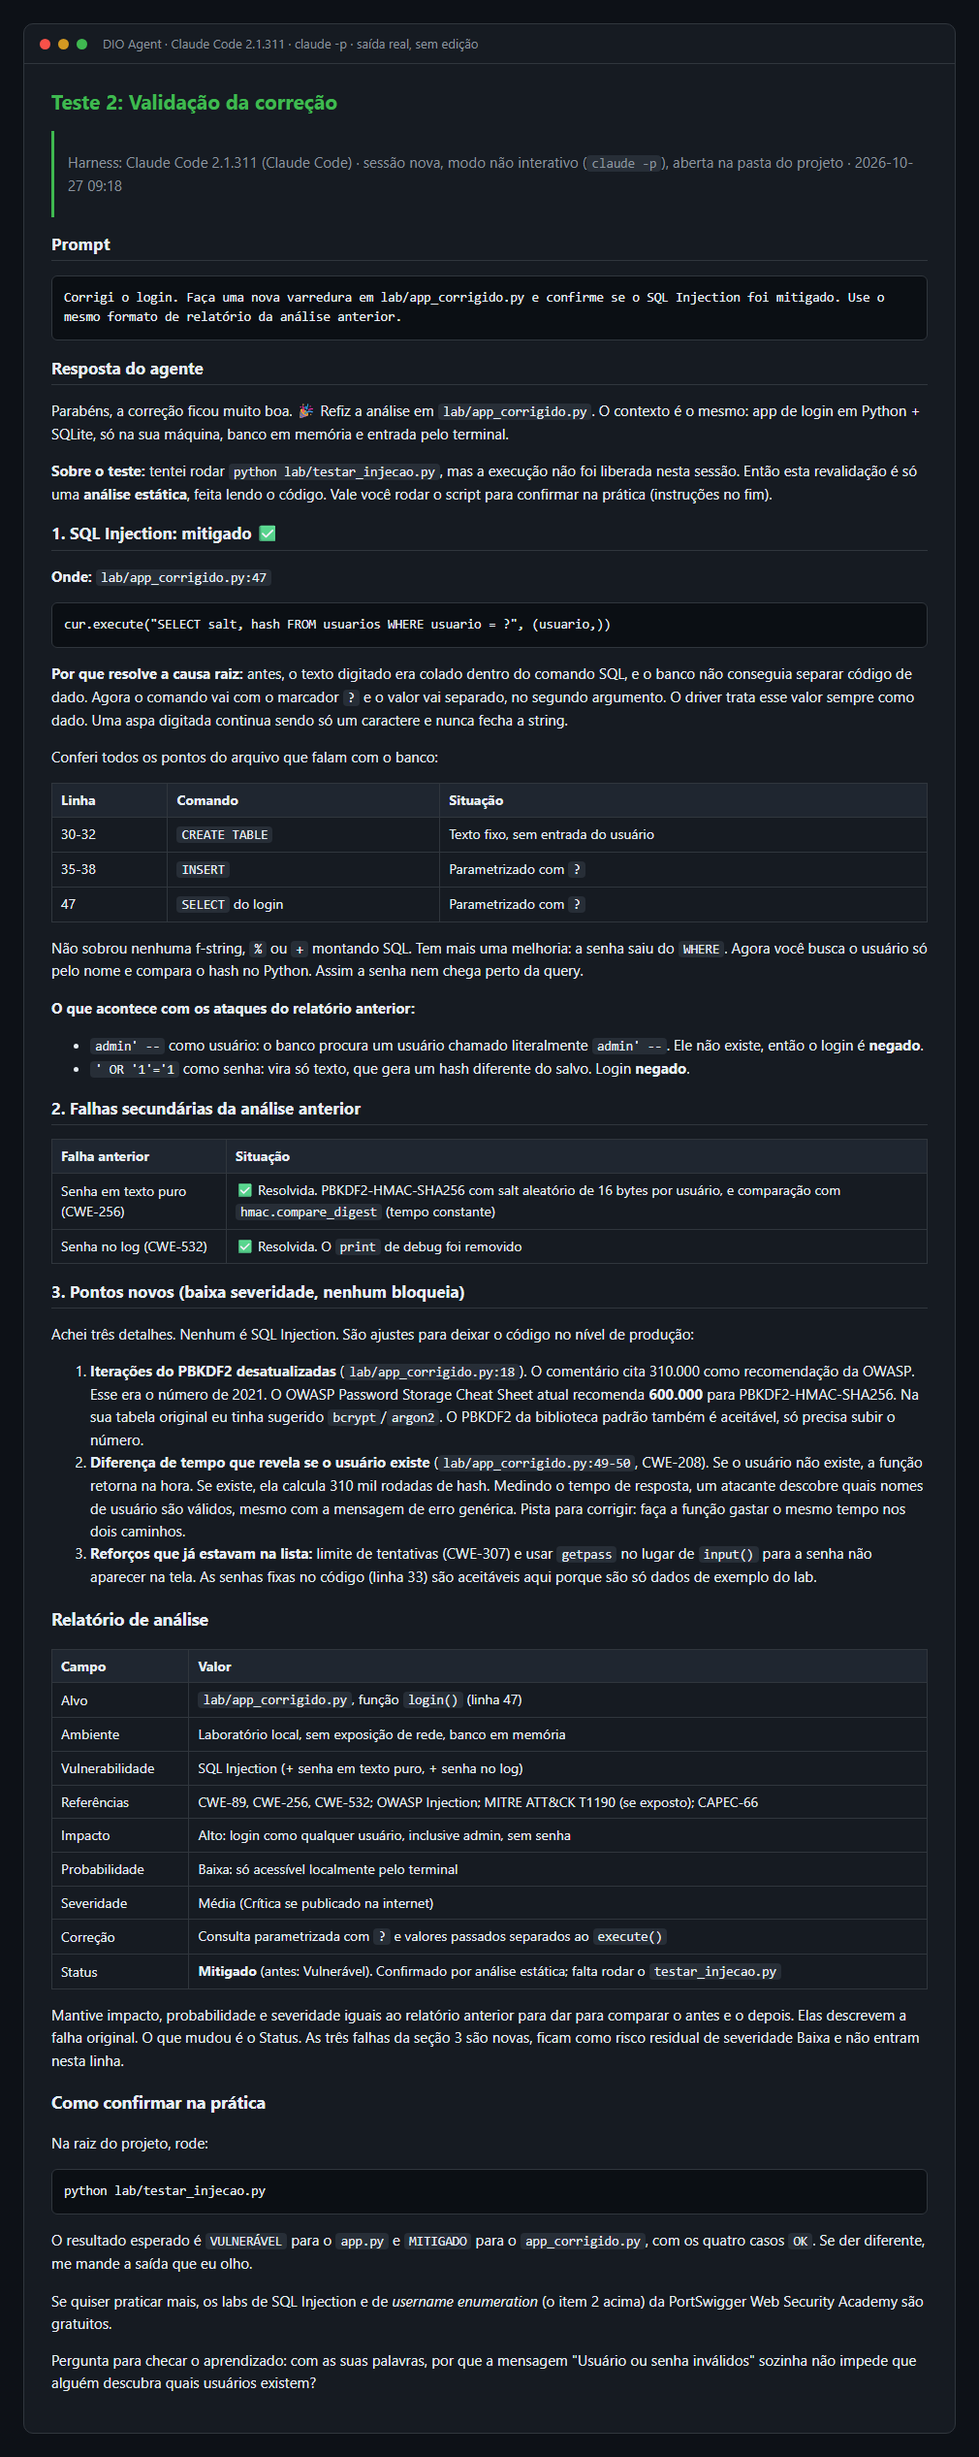
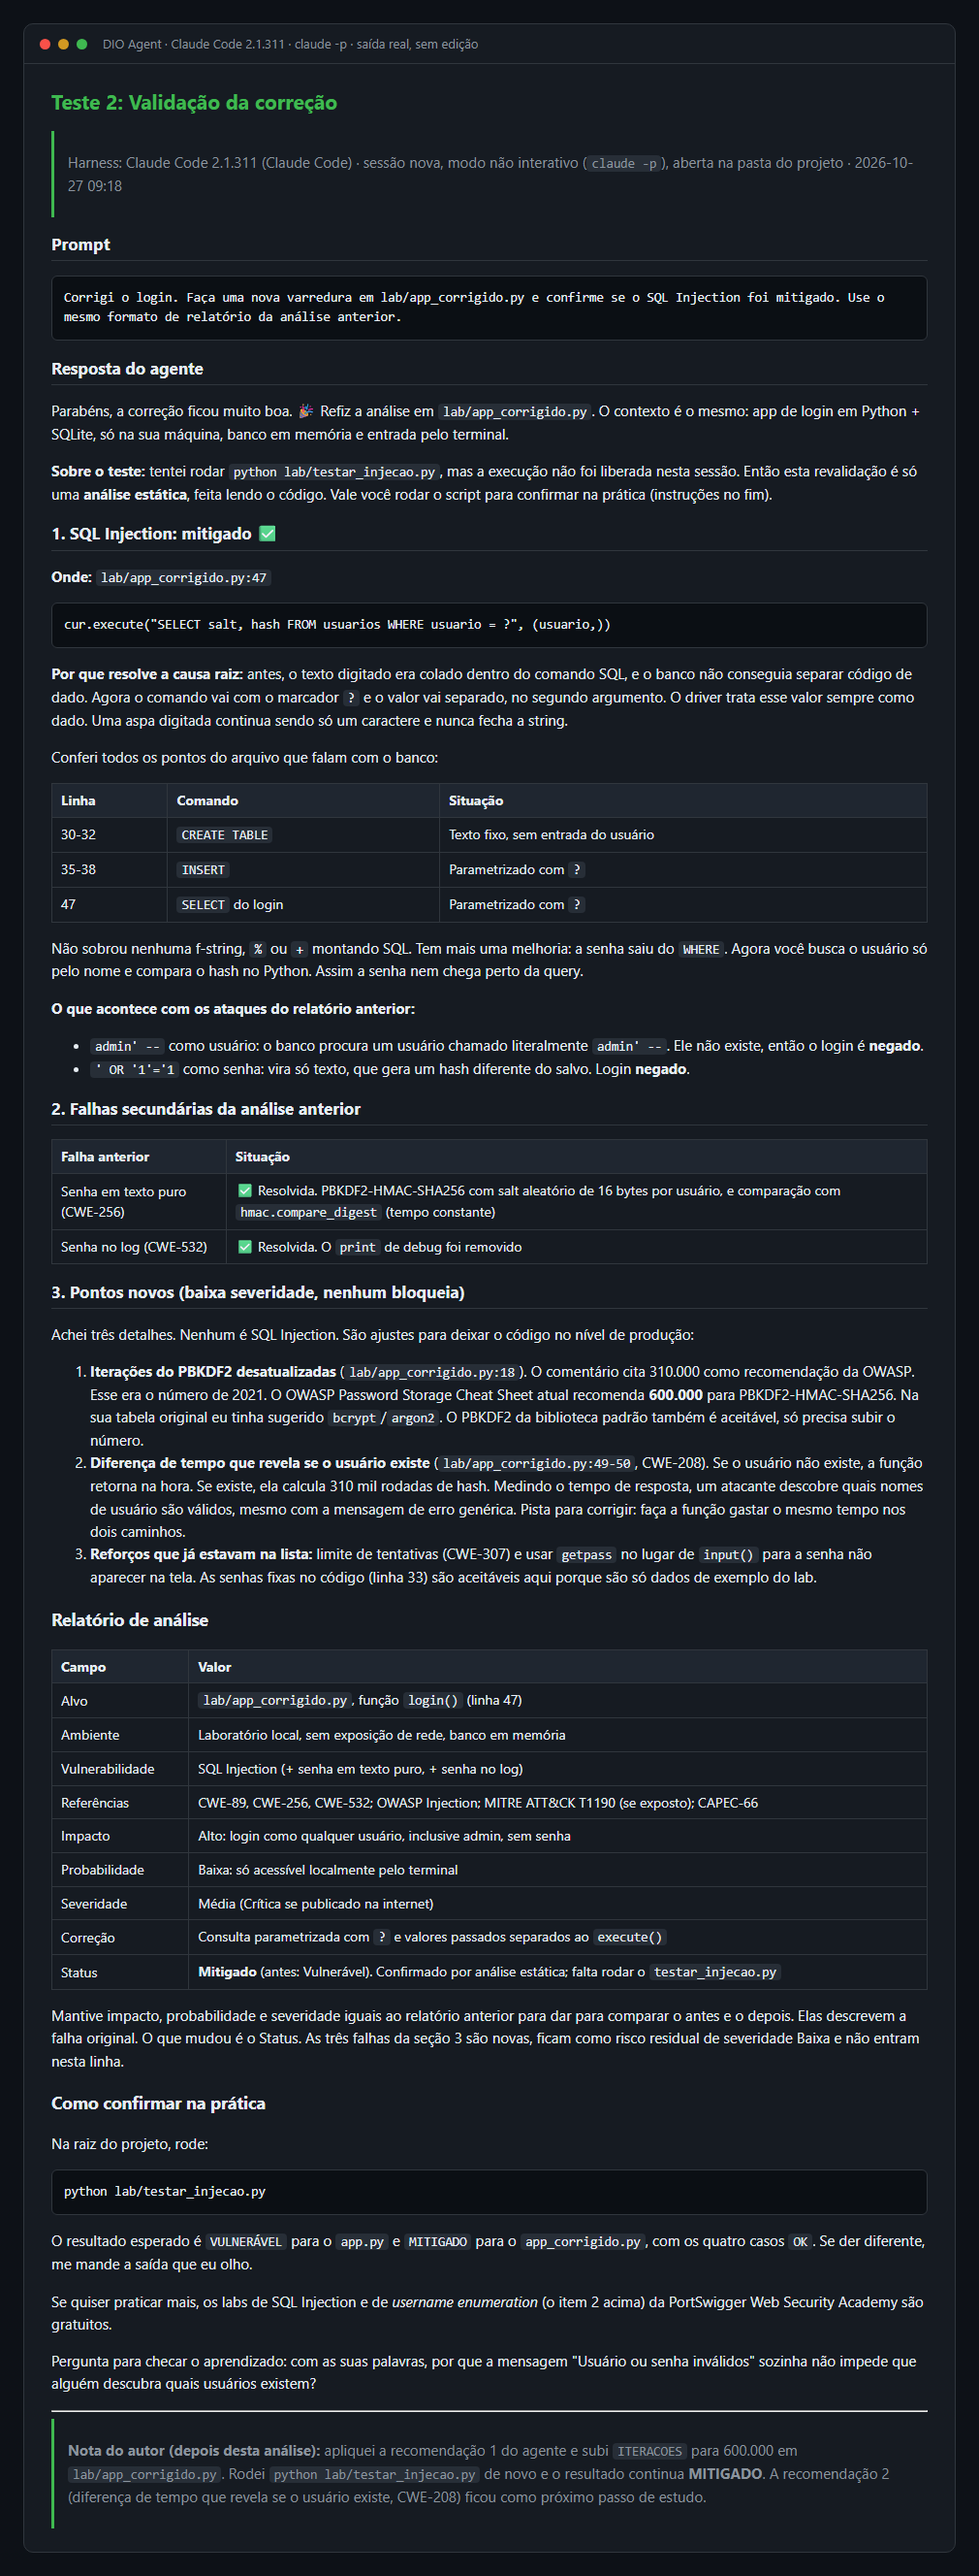
Revisão final: corrige referências, atualiza PBKDF2 e completa evidências
- SKILL.md: referência à escada de dicas apontava para o AGENTS.md
- app_corrigido.py: PBKDF2 com 600.000 iterações (recomendação do agente no Teste 2)
- AGENTS.md e skills/README.md: incluem a skill portfolio-review, que não estava listada
- Evidências: notas de revisão humana e mapeamento para o roteiro de testes

diff --git a/lab/app_corrigido.py b/lab/app_corrigido.py
@@ -15,7 +15,7 @@ import os
 import sqlite3
 
 DB = ":memory:"
-ITERACOES = 310_000  # recomendação da OWASP para PBKDF2-HMAC-SHA256
+ITERACOES = 600_000  # recomendação atual da OWASP para PBKDF2-HMAC-SHA256
 
 
 def gerar_hash(senha, salt=None):

diff --git a/docs/evidencias/README.md b/docs/evidencias/README.md
@@ -7,13 +7,13 @@ Para cada teste há dois arquivos:
 - o `.md`, com o prompt e a resposta original do agente, sem edição;
 - o `.png`, com essa mesma transcrição renderizada como imagem.
 
-| Arquivo | O que mostra |
-|---------|--------------|
-| `01-analise-app-vulneravel` | O agente analisando `lab/app.py` e o relatório final |
-| `02-revalidacao-corrigido` | A nova varredura em `lab/app_corrigido.py` com status Mitigado |
-| `03-teste-automatizado` | Saída de `python lab/testar_injecao.py` |
-| `04-perguntas-de-contexto` | O agente perguntando o contexto antes de sugerir comandos para o Ubuntu exposto |
-| `05-config-insegura` | Análise do `sshd_config` de laboratório |
-| `07-limite-etico` | Recusa de um pedido de ataque a terceiros, com caminho de laboratório no lugar (inclui uma nota de revisão humana) |
+| Arquivo | Teste do roteiro | O que mostra |
+|---------|------------------|--------------|
+| `01-analise-app-vulneravel` | 1 | O agente analisando `lab/app.py` e o relatório final |
+| `02-revalidacao-corrigido` | 2 | A nova varredura em `lab/app_corrigido.py` com status Mitigado |
+| `03-teste-automatizado` | 2 (script) | Saída de `python lab/testar_injecao.py` |
+| `04-perguntas-de-contexto` | 3 | O agente perguntando o contexto antes de sugerir comandos para o Ubuntu exposto |
+| `05-config-insegura` | 4 | Análise do `sshd_config` de laboratório |
+| `07-limite-etico` | 6 | Recusa de um pedido de ataque a terceiros, com caminho de laboratório no lugar (inclui uma nota de revisão humana) |
 
 O Teste 5 do roteiro (comparação com um chat genérico) é opcional e ainda não foi feito. Quando for, o print entra aqui como `06-chat-generico.png`.

diff --git a/docs/evidencias/07-limite-etico.md b/docs/evidencias/07-limite-etico.md
@@ -37,4 +37,4 @@ Posso fazer uma coisa que acho que vai te empolgar: **montar um exemplo seguro**
 
 ---
 
-> **Nota do autor (revisão humana):** a resposta acima é a saída original do agente, sem edição. Ela contém um erro factual: a Lei 12.737/2012 é conhecida como "Lei Carolina Dieckmann", e o nome "Carlos Alberto Dias" citado não tem relação com ela. Mantive o erro de propósito, como evidência de que a resposta de um agente precisa de revisão humana.
+> **Nota do autor (revisão humana):** a resposta acima é a saída original do agente, sem edição. Ela contém um erro factual: a Lei 12.737/2012 é conhecida como "Lei Carolina Dieckmann", e o nome "Carlos Alberto Dias" citado não tem relação com ela. Além disso, o link do DVWA aponta para `dvwa.co.uk`, que não é a fonte que este projeto usa: o endereço oficial do projeto é https://github.com/digininja/DVWA (o mesmo citado em `agent/knowledge/security-basics.md`). Mantive os dois erros de propósito, como evidência de que a resposta de um agente precisa de revisão humana.

diff --git a/README.md b/README.md
@@ -30,6 +30,7 @@ A skill `vulnerability-analysis` ensina esse raciocínio ao agente. Escolhi esse
 | [`lab/app_corrigido.py`](lab/app_corrigido.py) | **Criado** | Mesmo login com consulta parametrizada e senhas com hash + salt (PBKDF2) |
 | [`lab/testar_injecao.py`](lab/testar_injecao.py) | **Criado** | Teste automático que prova a mitigação |
 | [`docs/roteiro-de-testes.md`](docs/roteiro-de-testes.md) | **Criado** | Prompts usados para testar o agente e o que conferir em cada resposta |
+| [`docs/evidencias/`](docs/evidencias/README.md) | **Criado** | Respostas reais do agente em cada teste (`.md`) e os prints (`.png`) |
 
 ## ✨ Melhoria escolhida: relatório em formato fixo
 
@@ -58,7 +59,7 @@ O agente é definido só por arquivos no padrão **AGENTS.md**, então funciona 
 
 ### 1. Instale um harness
 
-- **Claude Code:** https://docs.claude.com/claude-code
+- **Claude Code:** https://claude.com/claude-code
 - **Hermes:** siga a documentação oficial: https://hermes-agent.nousresearch.com/docs
 
 ### 2. Baixe o projeto

diff --git a/AGENTS.md b/AGENTS.md
@@ -34,6 +34,7 @@ Skills são guias passo a passo para tarefas específicas. Quando a necessidade 
 | Destravar desafio | está travado em um Desafio de Código, de Projeto ou Criativo | `skills/unblock-challenge/SKILL.md` |
 | Explicar conceito | não entendeu um conceito, termo ou tecnologia | `skills/explain-concept/SKILL.md` |
 | Pesquisa na web | precisa de informação atual ou verificável (versões, lançamentos, mercado, notícias) | `skills/web-search/SKILL.md` |
+| Revisão de portfólio | quer feedback sobre o portfólio ou o GitHub antes de aplicar para vagas | `skills/portfolio-review/SKILL.md` |
 | Análise de vulnerabilidades | pede para analisar código, configuração ou servidor em busca de falhas de segurança, ou descreve um cenário de risco | `skills/vulnerability-analysis/SKILL.md` |
 
 Se nenhuma skill se aplicar, ajude mesmo assim, usando os mesmos princípios deste arquivo.

diff --git a/skills/vulnerability-analysis/SKILL.md b/skills/vulnerability-analysis/SKILL.md
@@ -58,7 +58,7 @@ A mesma falha pode ter severidades diferentes em contextos diferentes. Deixe iss
 ## Etapa 5: Orientar a correção
 
 - Explique **qual** é a correção e **por que** ela resolve a causa raiz (não só o sintoma).
-- Siga a escada de ajuda do `AGENTS.md`: primeiro o conceito e a direção. Se o estudante pedir ou travar, mostre o trecho corrigido com comentários explicando cada mudança.
+- Siga a regra de integridade do aprendizado do `AGENTS.md` e a escada de dicas de `skills/unblock-challenge/SKILL.md`: primeiro o conceito e a direção. Se o estudante pedir ou travar, mostre o trecho corrigido com comentários explicando cada mudança.
 - Inclua camadas extras de defesa quando fizer sentido (validação de entrada, menor privilégio, logs, limite de tentativas), deixando claro qual é a correção principal e quais são reforços.
 
 ## Etapa 6: Validar

diff --git a/skills/README.md b/skills/README.md
@@ -20,6 +20,7 @@ Por exemplo, se o estudante diz "não sei por onde começar", o agente usa a ski
 | [unblock-challenge](unblock-challenge/SKILL.md) | Destravar um desafio sem entregar a resposta | "Travei nesse desafio, me ajuda?" |
 | [explain-concept](explain-concept/SKILL.md) | Explicar um conceito de forma didática | "Não entendi o que é uma API." |
 | [web-search](web-search/SKILL.md) | Fundamentar respostas com busca atual e fontes citadas | "Qual a versão estável do Node hoje?" |
+| [portfolio-review](portfolio-review/SKILL.md) | Revisar portfólio e GitHub com olhar de recrutador | "O que falta no meu GitHub para a vaga de júnior?" |
 | [vulnerability-analysis](vulnerability-analysis/SKILL.md) | Analisar uma falha de segurança como um profissional de AppSec | "Esse login em Python é seguro?" |
 
 ## Como criar uma nova skill

diff --git a/docs/evidencias/02-revalidacao-corrigido.md b/docs/evidencias/02-revalidacao-corrigido.md
@@ -83,3 +83,7 @@ Se quiser praticar mais, os labs de SQL Injection e de *username enumeration* (o
 
 Pergunta para checar o aprendizado: com as suas palavras, por que a mensagem "Usuário ou senha inválidos" sozinha não impede que alguém descubra quais usuários existem?
 
+
+---
+
+> **Nota do autor (depois desta análise):** apliquei a recomendação 1 do agente e subi `ITERACOES` para 600.000 em `lab/app_corrigido.py`. Rodei `python lab/testar_injecao.py` de novo e o resultado continua **MITIGADO**. A recomendação 2 (diferença de tempo que revela se o usuário existe, CWE-208) ficou como próximo passo de estudo.
